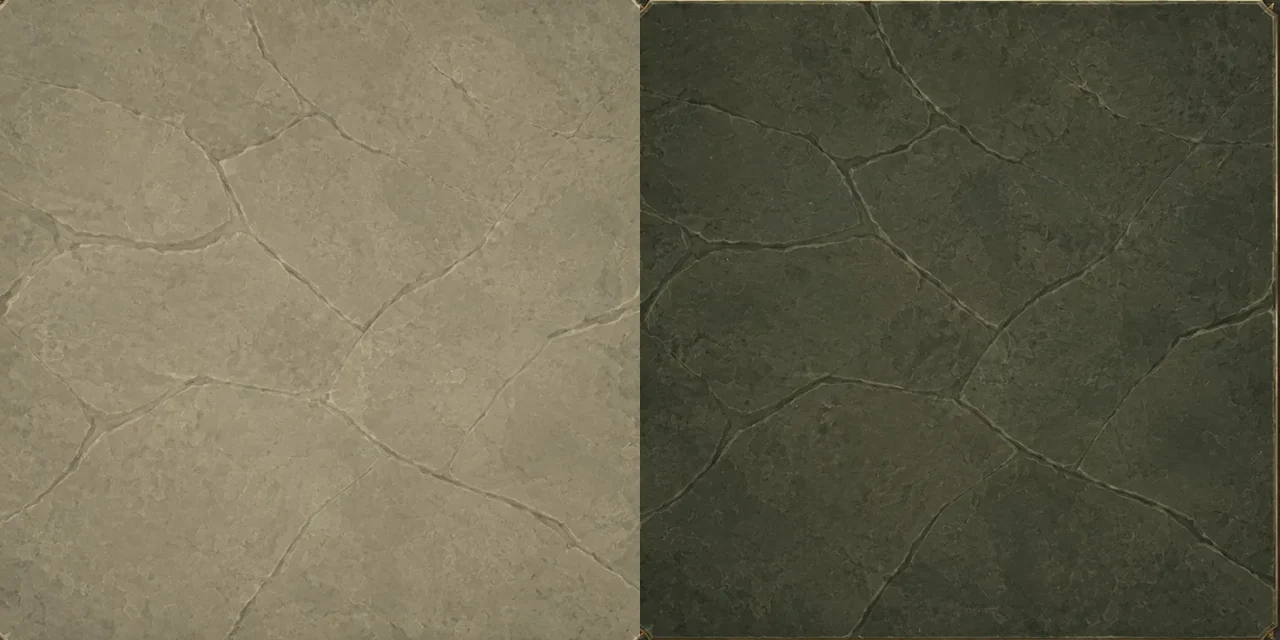
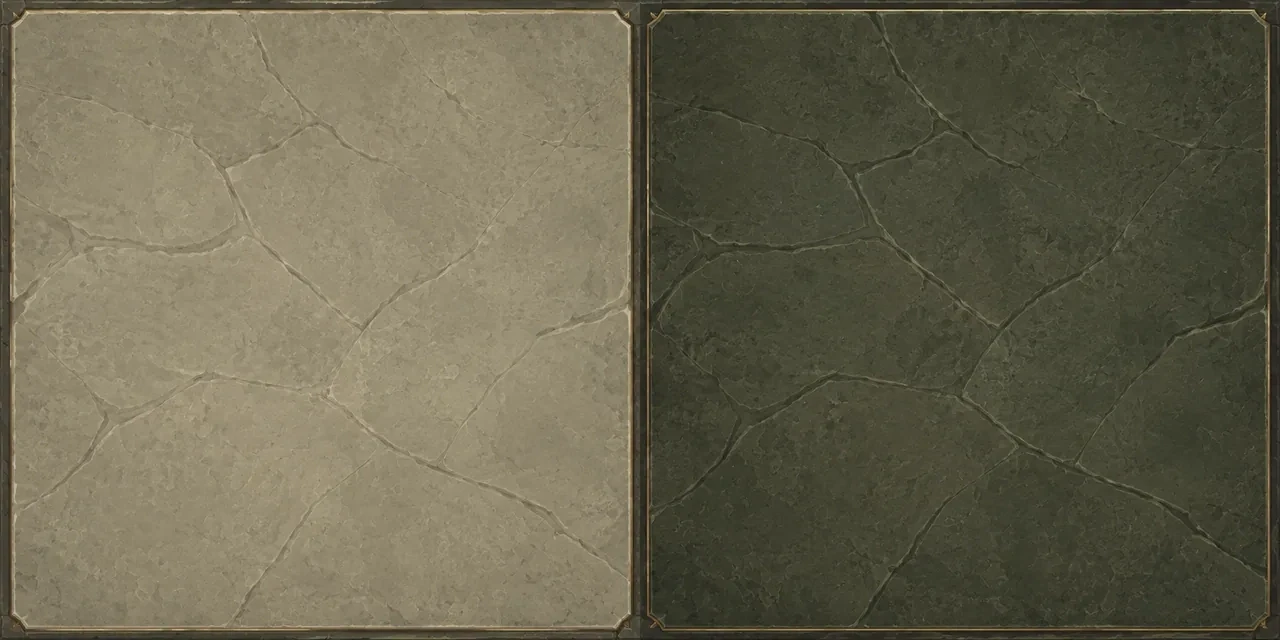
v1.40.0: Eigenrand der Felder zurueck, Zugmeldung nach oben, Hofwert ohne Knopf, gleiche Bretthoehe in allen Kapiteln
Felder: v1.39.1 hatte den gemalten Rand weggeschnitten - falsch (v0.71.4:
der Eigenrand bleibt komplett drin). Ursache war die Skalierung: Haelften
640x720 wurden auf Zellenbreite skaliert und oben/unten beschnitten. Jetzt
nur Stauchung 720 -> 640, nichts geschnitten, alle 16 Streifen.

GameScreen: zugMeldung als eine Definition, oben mittig zwischen den Knoepfen;
unten entfernt. ForceBadge ohne Plakette (nur Zahl + Wort + Schatten), obere
Summenleiste enger ans Brett. Der schlichteRegeln-Sonderrahmen um den
Brettblock ist fort; KampfLeiste laeuft immer (Rochade/En passant im Schach).

Gemessen: Bretthoehe/-lage in Kapitel I und III, Hofwert frei.

Kette: npm test RUECKGABECODE 0 - build - build:single - test_boot 3/3 -
verify-boot - drive3 KEINE FEHLER - messe_kulissen 57/57.

diff --git a/src/app/ui/screens/GameScreen.jsx b/src/app/ui/screens/GameScreen.jsx
@@ -126,10 +126,13 @@ const HUD_PAD = 12;
    Leuchten. Die Farbe der Seite (gold/gruen) traegt nur noch die Zahl. */
 function ForceBadge({ hp, atk, neon, t, wert }) {
   return (
+    /* v1.40.0 (Besitzer: "dieses Hofwert wuerde ich evtl sogar ohne diese
+       Button-Geschichte machen und minimal noch naeher ans Schachfeld"):
+       keine Plakette mehr - nur die Zahl mit ihrem Woertchen, frei auf dem
+       Grund, mit einem Schatten, damit sie auf jeder Kulisse lesbar bleibt. */
     <span style={{ display: "inline-flex", alignItems: "center", gap: 5, whiteSpace: "nowrap",
-      padding: "4px 11px", borderRadius: 999, background: "rgba(14,10,26,.34)",
-      border: "1px solid rgba(167,139,250,.24)", font: "700 11px/1 Georgia, serif", letterSpacing: ".04em",
-      color: "rgba(226,218,246,.66)" }}>
+      padding: "0 2px", font: "700 11px/1 Georgia, serif", letterSpacing: ".04em",
+      color: "rgba(226,218,246,.6)", textShadow: "0 1px 3px rgba(0,0,0,.85)" }}>
       <span style={{ font: "600 8.5px/1 Georgia, serif", letterSpacing: ".12em",
         textTransform: "uppercase", opacity: .8 }}>{t("online.score")}</span>
       {wert}
@@ -1053,6 +1056,21 @@ export function GameScreen({ profile, dispatch, t, match = null, onExit = null, 
   /* Stillstand-Warnung: die letzten zehn Zuege vor dem HP-Remis ansagen. */
   const stillstandRest = hpMode ? Math.ceil((HP_REMIS_HALBZUEGE - (state.ohneSchaden || 0)) / 2) : 99;
   const statusText = banner ? "" : st.check ? t("game.check") : stillstandRest <= 10 ? t("game.stillstandIn", { n: Math.max(0, stillstandRest) }) : hotseat ? t(state.turn === WHITE ? "hs.turnWhite" : "hs.turnBlack") : myTurn ? t("game.turnYou") : pvp ? t("online.turnOpp") : t("game.turnAi");
+  /* v1.40.0 (Besitzer): DIE ZUGMELDUNG - eine Plakette, oben in der Mitte
+     zwischen Zurueck und Aufgeben. Definiert an EINER Stelle, damit sie nicht
+     zweimal im Schirm steht (der alte Platz unter dem Brett ist fort). */
+  const zugMeldung = <div style={{ display: "inline-flex", alignItems: "center", gap: 7, maxWidth: "100%",
+            border: `1px solid ${st.check ? T.gold + "aa" : "rgba(167,139,250,.24)"}`,
+            background: st.check ? "linear-gradient(180deg, rgba(40,28,60,.8), rgba(18,12,30,.86))" : "rgba(14,10,26,.34)",
+            borderRadius: 999, padding: "5px 12px",
+            boxShadow: st.check ? "0 0 12px rgba(240,206,122,.28)" : "none" }}>
+            <span aria-hidden style={{ width: 7, height: 7, borderRadius: 999, flex: "0 0 auto",
+              background: st.check || ereignis ? T.goldBright : myTurn || (hotseat && state.turn === WHITE) ? T.gold : "#8b7bd8",
+              boxShadow: st.check ? `0 0 8px ${T.goldBright}` : "none" }} />
+            <span className="gg-serif" style={{ fontWeight: 700, fontSize: 12.5, letterSpacing: ".04em", minWidth: 0,
+              overflow: "hidden", textOverflow: "ellipsis", whiteSpace: "nowrap",
+              color: st.check ? T.goldBright : ereignis ? "#ded2b4" : "rgba(226,218,246,.66)" }}>{ereignis || statusText}</span>
+          </div>;
   const clockLbl = clock != null ? `${Math.floor(Math.max(0, clock) / 60)}:${String(Math.max(0, clock) % 60).padStart(2, "0")}` : null;
   const clockHot = clock != null && (timer?.type === "move" ? clock <= 5 : clock <= 30);
   // DIE UHR DARF NICHT ZU UEBERSEHEN SEIN (Besitzer, v0.45): "man vergisst
@@ -1085,7 +1103,12 @@ export function GameScreen({ profile, dispatch, t, match = null, onExit = null, 
           </button>
         )}
         <div style={{ flex: "1 1 130px", minWidth: 0, display: "flex", alignItems: "center", justifyContent: "center", gap: 6, overflow: "hidden" }}>
-          {pvp ? <>
+          {/* v1.40.0 (Besitzer: "dieses Du bist am Zug wuerde ich evtl sogar
+              mittig zwischen Zurueck und Aufgeben platzieren"): die Meldung
+              steht jetzt HIER, zwischen den beiden Knoepfen, im selben leisen
+              Kleid. Sie verdraengt den Hinweis auf Gegner und Schwierigkeit,
+              solange sie etwas zu sagen hat - unten ist sie fort. */}
+          {(ereignis || statusText) ? zugMeldung : (pvp ? <>
               <Chip color={T.gold} bg={T.sel}><JewelIc kind="power" size={12} /> {pvp.oppName}</Chip>
               <Chip color={T.dim} bg={T.sel}>{pvp.oppScore}</Chip>
               {desync && <Chip color={"#b4636c"} bg={T.sel}>{t("online.desync")}</Chip>}
@@ -1096,7 +1119,7 @@ export function GameScreen({ profile, dispatch, t, match = null, onExit = null, 
               {match.boss && <Chip color={match.boss.bossId?.startsWith("pb_") ? T.gold : "#b4636c"} bg={T.sel}>{match.boss.bossId?.startsWith("pb_") ? <JewelIc kind="power" size={12} /> : <SkullIc color="#b4636c" size={12} />} {en ? match.boss.nameEn : match.boss.nameDe}</Chip>}
             </>
             : hotseat ? <Chip color={T.text} bg={T.sel}>{t("quick.hotseat")}</Chip>
-            : <Chip color={T.text} bg={T.sel}>{t("game.ai")} · {t("diff." + difficulty)}</Chip>}
+            : <Chip color={T.text} bg={T.sel}>{t("game.ai")} · {t("diff." + difficulty)}</Chip>)}
         </div>
         {clockLbl && (
           <span className="gg-serif" style={{ ...pill({ cursor: "default",
@@ -1168,7 +1191,7 @@ export function GameScreen({ profile, dispatch, t, match = null, onExit = null, 
           negativer Unterrand), unten ebenso - die Zahlen gehoeren zum Brett,
           nicht zum Bildschirmrand. */}
       <div style={{ display: "flex", alignItems: "center", gap: 8, padding: `0 ${HUD_PAD}px`,
-        minHeight: 26, marginBottom: -6, flex: "0 0 auto" }}>
+        minHeight: 20, marginBottom: -10, flex: "0 0 auto" }}>
         <span data-gg-tray="w"><Tray kinds={state.captured.b} color="w" /></span>
         <div style={{ flex: 1 }} />
         {hpMode && <ForceBadge hp={F.b.hp} atk={F.b.atk} neon={T.magenta} t={t} wert={F.b.hp + F.b.atk} />}
@@ -1385,18 +1408,7 @@ export function GameScreen({ profile, dispatch, t, match = null, onExit = null, 
           {/* v1.39.0: dasselbe leise Kleid wie Zurueck, Aufgeben und Hofwert.
               SCHACH bleibt die Ausnahme - da darf es leuchten, sonst uebersieht
               man die eine Meldung, die man nicht uebersehen darf. */}
-          {(ereignis || statusText) && <div style={{ display: "inline-flex", alignItems: "center", gap: 7, maxWidth: "100%",
-            border: `1px solid ${st.check ? T.gold + "aa" : "rgba(167,139,250,.24)"}`,
-            background: st.check ? "linear-gradient(180deg, rgba(40,28,60,.8), rgba(18,12,30,.86))" : "rgba(14,10,26,.34)",
-            borderRadius: 999, padding: "5px 12px",
-            boxShadow: st.check ? "0 0 12px rgba(240,206,122,.28)" : "none" }}>
-            <span aria-hidden style={{ width: 7, height: 7, borderRadius: 999, flex: "0 0 auto",
-              background: st.check || ereignis ? T.goldBright : myTurn || (hotseat && state.turn === WHITE) ? T.gold : "#8b7bd8",
-              boxShadow: st.check ? `0 0 8px ${T.goldBright}` : "none" }} />
-            <span className="gg-serif" style={{ fontWeight: 700, fontSize: 12.5, letterSpacing: ".04em", minWidth: 0,
-              overflow: "hidden", textOverflow: "ellipsis", whiteSpace: "nowrap",
-              color: st.check ? T.goldBright : ereignis ? "#ded2b4" : "rgba(226,218,246,.66)" }}>{ereignis || statusText}</span>
-          </div>}
+          {/* v1.40.0: die Meldung steht jetzt OBEN zwischen Zurueck und Aufgeben */}
         </div>
         <span data-gg-tray="b"><Tray kinds={state.captured.w} color="b" /></span>
         {hpMode && <ForceBadge hp={F.w.hp} atk={F.w.atk} neon={T.lime} t={t} wert={F.w.hp + F.w.atk} />}
@@ -1520,7 +1532,14 @@ export function GameScreen({ profile, dispatch, t, match = null, onExit = null, 
             haben die Figuren keine Talente und keine Sonderzuege - eine Leiste,
             die nichts zu sagen hat, nimmt nur Platz und Aufmerksamkeit. Das
             Brett bekommt den ganzen Blick. */}
-        {leisteNoetig && <KampfLeiste state={state} inspect={inspect} en={en} myColor={hotseat ? state.turn : WHITE} banner={!!banner} stil={profile.pieceStyle} scharf={scharf} onScharf={setScharf} />}
+        {/* v1.40.0 (Besitzer: "bei Kapitel 1 und 2 sollte das Schachbrett auf der
+            gleichen Hoehe sein wie in den anderen Kapiteln"): die Kampfleiste
+            laeuft jetzt IMMER. Im reinen Schach zeigte sie nichts an und fiel
+            weg - dadurch bekam das Brett ihren Platz und stand groesser und
+            tiefer als in allen anderen Kapiteln (gemessen 384 px ab 259 statt
+            283 px ab 154). Sie hat dort auch etwas zu sagen: Rochade und En
+            passant sind Sonderzuege des Schachs. */}
+        {<KampfLeiste state={state} inspect={inspect} en={en} myColor={hotseat ? state.turn : WHITE} banner={!!banner} stil={profile.pieceStyle} scharf={scharf} onScharf={setScharf} />}
         {!schlichteRegeln && ruestungsZeile}
       </aside>
       {dailyDoneEl}
@@ -1546,15 +1565,25 @@ export function GameScreen({ profile, dispatch, t, match = null, onExit = null, 
           gesehen). Stattdessen traegt ein RAHMEN den freien Raum und
           zentriert das Brett darin; der Brettblock selbst behaelt seine
           eigene Groessenrechnung. */}
-      {schlichteRegeln
-        ? <div style={{ flex: "1 1 auto", minHeight: 0, display: "flex", flexDirection: "column", justifyContent: "center" }}>{boardBlock}</div>
-        : boardBlock}
+      {/* v1.40.0: EIN Aufbau fuer beide Regeln. Im reinen Schach stand der
+          Brettblock in einem eigenen, mittig setzenden Rahmen - daher stand
+          das Brett dort groesser und tiefer als in den Lebenspunkte-Kapiteln
+          (Besitzer: "bei Kapitel 1 und 2 sollte das Schachbrett auf der
+          gleichen Hoehe sein"). */}
+      {boardBlock}
       <div ref={botChromeRef} style={{ flex: "0 0 auto" }}>{yourStrip}</div>
       {/* v0.86 (Besitzer): IM KLASSISCHEN SCHACH SCHWEIGT DIE LEISTE. Dort
             haben die Figuren keine Talente und keine Sonderzuege - eine Leiste,
             die nichts zu sagen hat, nimmt nur Platz und Aufmerksamkeit. Das
             Brett bekommt den ganzen Blick. */}
-        {leisteNoetig && <KampfLeiste state={state} inspect={inspect} en={en} myColor={hotseat ? state.turn : WHITE} banner={!!banner} stil={profile.pieceStyle} scharf={scharf} onScharf={setScharf} />}
+        {/* v1.40.0 (Besitzer: "bei Kapitel 1 und 2 sollte das Schachbrett auf der
+            gleichen Hoehe sein wie in den anderen Kapiteln"): die Kampfleiste
+            laeuft jetzt IMMER. Im reinen Schach zeigte sie nichts an und fiel
+            weg - dadurch bekam das Brett ihren Platz und stand groesser und
+            tiefer als in allen anderen Kapiteln (gemessen 384 px ab 259 statt
+            283 px ab 154). Sie hat dort auch etwas zu sagen: Rochade und En
+            passant sind Sonderzuege des Schachs. */}
+        {<KampfLeiste state={state} inspect={inspect} en={en} myColor={hotseat ? state.turn : WHITE} banner={!!banner} stil={profile.pieceStyle} scharf={scharf} onScharf={setScharf} />}
       {!schlichteRegeln && ruestungsZeile}
       {dailyDoneEl}
       {bannerEl}{raus}

diff --git a/CHANGELOG.md b/CHANGELOG.md
@@ -1,5 +1,31 @@
 # Changelog - Grand Gambit
 
+## 1.40.0
+- DIE FELDER TRAGEN WIEDER IHREN EIGENRAND (Besitzer: "die Schachfelder haben
+  doch ganz sanfte Rundungen - hast du die weggeschnitten? das waere
+  unschoen"). JA, und das war falsch: v1.39.1 hatte den gemalten Rand
+  abgeschnitten, den der Besitzer in v0.71.4 ausdruecklich behalten wollte.
+  DIE ECHTE URSACHE: jede Zelle skaliert ihre Kachel auf Zellenbreite - bei
+  Kapitel I ist die Haelfte quadratisch (640x640) und passt, bei allen anderen
+  ist sie 640x720 und wurde oben und unten beschnitten: Rand und Rundung
+  fielen weg. Jetzt wird NICHTS geschnitten, jede Haelfte nur auf 640x640
+  gestaucht (8-11 %, im Stein unsichtbar) - Fuge, Eigenrand und Rundung
+  bleiben vollstaendig, in allen 16 Streifen.
+- DIE ZUGMELDUNG STEHT OBEN IN DER MITTE, zwischen Zurueck und Aufgeben
+  (Besitzer). Unter dem Brett ist sie fort - sie stand dort doppelt so weit
+  vom Blick entfernt. Sie verdraengt den Hinweis auf Gegner und Schwierigkeit,
+  solange sie etwas zu sagen hat.
+- DER HOFWERT OHNE KNOPFKLEID (Besitzer: "ohne diese Button-Geschichte und
+  minimal noch naeher ans Schachfeld"): nur die Zahl mit ihrem Woertchen,
+  frei auf dem Grund, mit Schatten fuer die Lesbarkeit; die Leiste rueckt
+  naeher ans Brett (minHeight 26 -> 20, Abstand -6 -> -10).
+- GLEICHE BRETTHOEHE IN ALLEN KAPITELN (Besitzer: "bei Kapitel 1 und 2 sollte
+  das Schachbrett auf der gleichen Hoehe sein wie in den anderen"): im reinen
+  Schach stand der Brettblock in einem eigenen, mittig setzenden Rahmen und
+  rutschte dadurch nach unten (gemessen: Oberkante 259 px statt 154 px). Ein
+  Aufbau fuer beide Regeln. Dazu laeuft die Kampfleiste jetzt IMMER - im
+  Schach zeigt sie Rochade und En passant.
+
 ## 1.39.1
 - DIE SCHACHFELDER SEHEN IN JEDEM KAPITEL AUS WIE IN KAPITEL I (Besitzer:
   "die Schachfelder sind irgendwie so ein bisschen verrueckt ... ich habe das
